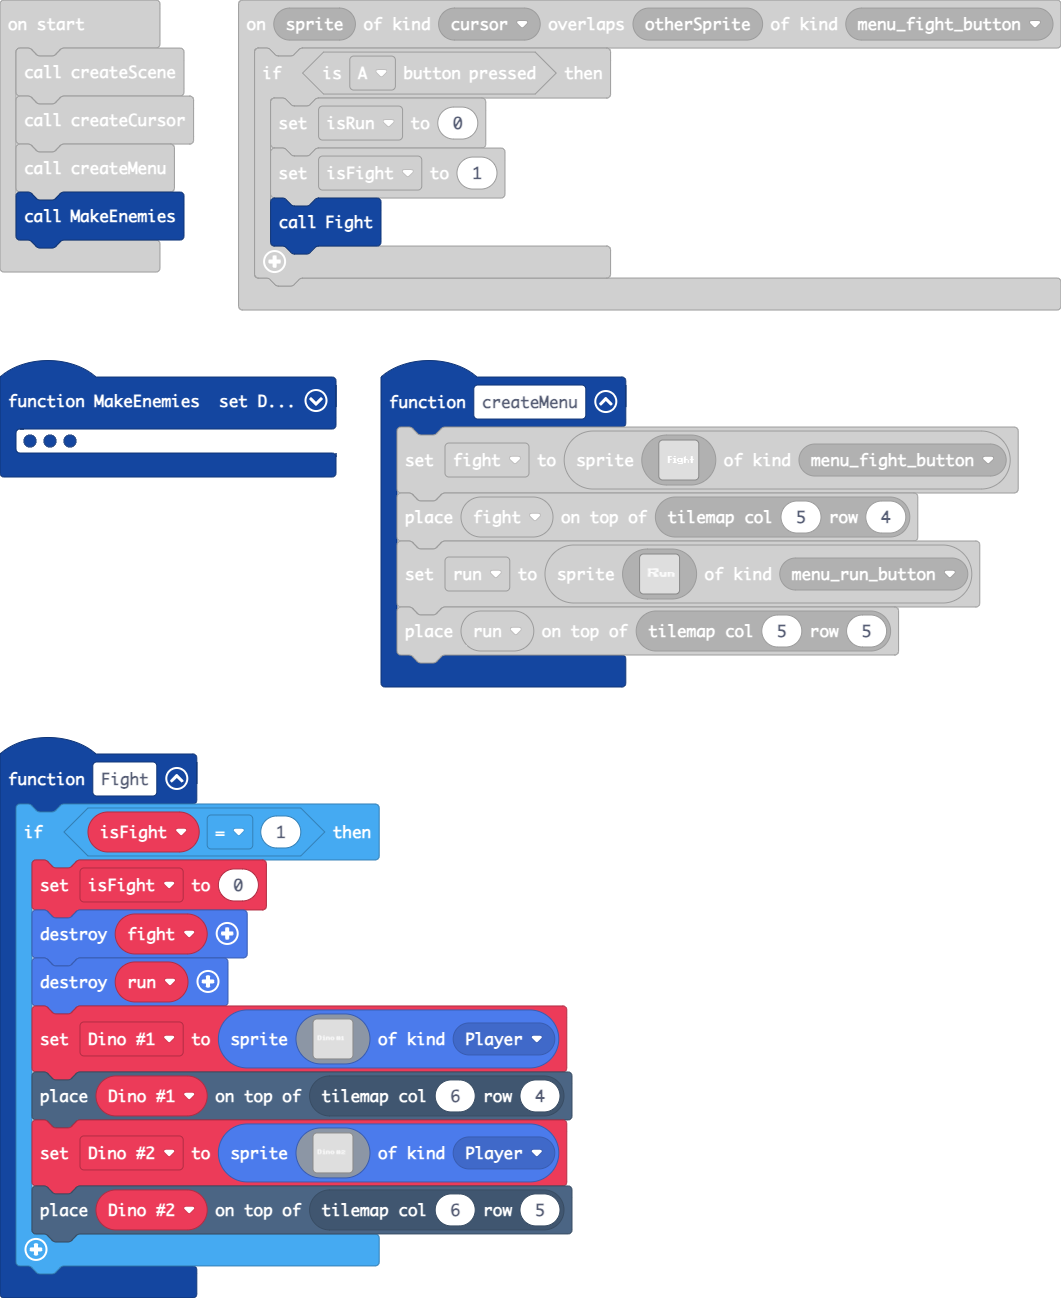
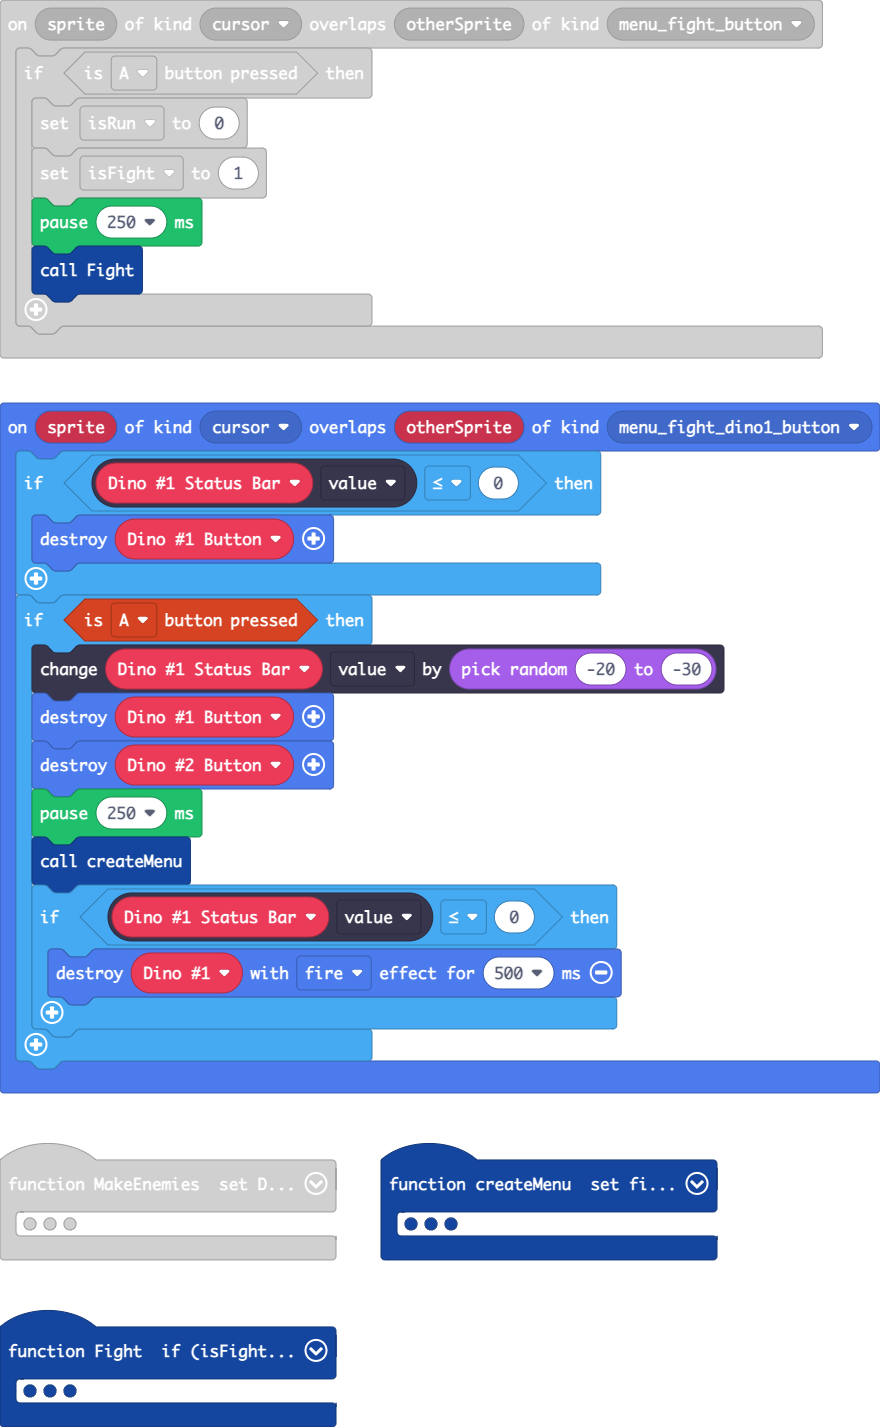
added health, a player, and an attacking system

diff --git a/main.ts b/main.ts
@@ -2,9 +2,11 @@ namespace SpriteKind {
     export const menu_fight_button = SpriteKind.create()
     export const menu_run_button = SpriteKind.create()
     export const cursor = SpriteKind.create()
+    export const menu_fight_dino1_button = SpriteKind.create()
+    export const Hero = SpriteKind.create()
 }
 function MakeEnemies () {
-    Dino = sprites.create(img`
+    Dino_1 = sprites.create(img`
         ........................
         ........................
         ...........cc...........
@@ -30,8 +32,12 @@ function MakeEnemies () {
         ......cccbdddbccccccc...
         ........cdd555dc........
         `, SpriteKind.Enemy)
-    tiles.placeOnTile(Dino, tiles.getTileLocation(1, 0))
-    Dino = sprites.create(img`
+    tiles.placeOnTile(Dino_1, tiles.getTileLocation(1, 0))
+    Dino_1_Status_Bar = statusbars.create(20, 4, StatusBarKind.Health)
+    Dino_1_Status_Bar.attachToSprite(Dino_1, -30, 0)
+    Dino_1_Status_Bar.value = 100
+    Dino_1_Status_Bar.setColor(7, 2)
+    Dino_2 = sprites.create(img`
         ........................
         ........................
         ...........cc...........
@@ -57,12 +63,51 @@ function MakeEnemies () {
         ......cccbdddbccccccc...
         ........cdd555dc........
         `, SpriteKind.Enemy)
-    tiles.placeOnTile(Dino, tiles.getTileLocation(1, 2))
+    tiles.placeOnTile(Dino_2, tiles.getTileLocation(1, 2))
+    Dino_2_Status_Bar = statusbars.create(20, 4, StatusBarKind.Health)
+    Dino_2_Status_Bar.attachToSprite(Dino_2, -30, 0)
+    Dino_2_Status_Bar.value = 100
+    Dino_2_Status_Bar.setColor(7, 2)
+    Hero = sprites.create(img`
+        ...............ff.......
+        .............ff2ffff....
+        ............ff2feeeeff..
+        ...........ff22feeeeeff.
+        ...........feeeeffeeeef.
+        ..........fe2222eefffff.
+        ..........f2effff222efff
+        ..........fffeeeffffffff
+        ..........fee44fbe44efef
+        ...........feddfb4d4eef.
+        ..........c.eeddd4eeef..
+        ...cccccccceddee2222f...
+        ....cdddddcedd44e444f...
+        .....cccccc.eeeefffff...
+        ..........c...ffffffff..
+        ...............ff..fff..
+        `, SpriteKind.Hero)
+    tiles.placeOnTile(Hero, tiles.getTileLocation(8, 1))
 }
+sprites.onOverlap(SpriteKind.cursor, SpriteKind.menu_fight_dino1_button, function (sprite, otherSprite) {
+    if (Dino_1_Status_Bar.value <= 0) {
+        sprites.destroy(Dino_1_Button)
+    }
+    if (controller.A.isPressed()) {
+        Dino_1_Status_Bar.value += randint(-20, -30)
+        sprites.destroy(Dino_1_Button)
+        sprites.destroy(Dino_2_Button)
+        pause(250)
+        createMenu()
+        if (Dino_1_Status_Bar.value <= 0) {
+            sprites.destroy(Dino_1, effects.fire, 500)
+        }
+    }
+})
 sprites.onOverlap(SpriteKind.cursor, SpriteKind.menu_fight_button, function (sprite, otherSprite) {
     if (controller.A.isPressed()) {
         isRun = 0
         isFight = 1
+        pause(250)
         Fight()
     }
 })
@@ -74,19 +119,18 @@ sprites.onOverlap(SpriteKind.cursor, SpriteKind.menu_run_button, function (sprit
 })
 function Fight () {
     if (isFight == 1) {
-        isFight = 0
         sprites.destroy(fight)
         sprites.destroy(run)
-        Dino_1 = sprites.create(img`
+        Dino_1_Button = sprites.create(img`
             ..................................................
             ..................................................
             ..................................................
             ..................................................
-            .11111....11......................................
-            .11..11........................11.11...11.........
-            .11..11..111..11111...1111.....11.11..111.........
-            .11..11...11..11..11.11..11...1111111..11.........
-            .11..11...11..11..11.11..11....11.11...11.........
+            .11111....11...................11.11...11.........
+            .11..11.......................1111111.111.........
+            .11...11.111..11111...1111.....11.11...11.........
+            .11...11..11..11..11.11..11....11.11...11.........
+            .11...11..11..11..11.11..11....11.11...11.........
             .11..11...11..11..11.11..11...1111111..11.........
             .11111...1111.11..11..1111.....11.11..1111........
             ..................................................
@@ -94,27 +138,27 @@ function Fight () {
             ..................................................
             ..................................................
             ..................................................
+            `, SpriteKind.menu_fight_dino1_button)
+        tiles.placeOnTile(Dino_1_Button, tiles.getTileLocation(6, 4))
+        Dino_2_Button = sprites.create(img`
+            ..................................................
+            ..................................................
+            ..................................................
+            ..................................................
+            .11111....11...................11.11...11111......
+            .11..11.......................1111111.11...11.....
+            .11...11.111..11111...1111.....11.11......111.....
+            .11...11..11..11..11.11..11....11.11....1111......
+            .11...11..11..11..11.11..11....11.11...1111.......
+            .11..11...11..11..11.11..11...1111111.111.........
+            .11111...1111.11..11..1111.....11.11..1111111.....
+            ..................................................
+            ..................................................
+            ..................................................
+            ..................................................
+            ..................................................
             `, SpriteKind.Player)
-        tiles.placeOnTile(Dino_1, tiles.getTileLocation(6, 4))
-        Dino_2 = sprites.create(img`
-            ..................................................
-            ..................................................
-            ..................................................
-            ..................................................
-            .11111....11......................................
-            .11..11........................11.11...1111.......
-            .11..11..111..11111...1111.....11.11..11...1......
-            .11..11...11..11..11.11..11...1111111....111......
-            .11..11...11..11..11.11..11....11.11...111........
-            .11..11...11..11..11.11..11...1111111.11..........
-            .11111...1111.11..11..1111.....11.11..111111......
-            ..................................................
-            ..................................................
-            ..................................................
-            ..................................................
-            ..................................................
-            `, SpriteKind.Player)
-        tiles.placeOnTile(Dino_2, tiles.getTileLocation(6, 5))
+        tiles.placeOnTile(Dino_2_Button, tiles.getTileLocation(6, 5))
     }
 }
 function createCursor () {
@@ -268,13 +312,17 @@ function createScene () {
     tiles.setCurrentTilemap(tilemap`level1`)
 }
 let cursor: Sprite = null
-let Dino_2: Sprite = null
-let Dino_1: Sprite = null
 let run: Sprite = null
 let fight: Sprite = null
 let isFight = 0
 let isRun = 0
-let Dino: Sprite = null
+let Dino_2_Button: Sprite = null
+let Dino_1_Button: Sprite = null
+let Hero: Sprite = null
+let Dino_2_Status_Bar: StatusBarSprite = null
+let Dino_2: Sprite = null
+let Dino_1_Status_Bar: StatusBarSprite = null
+let Dino_1: Sprite = null
 createScene()
 createCursor()
 createMenu()
